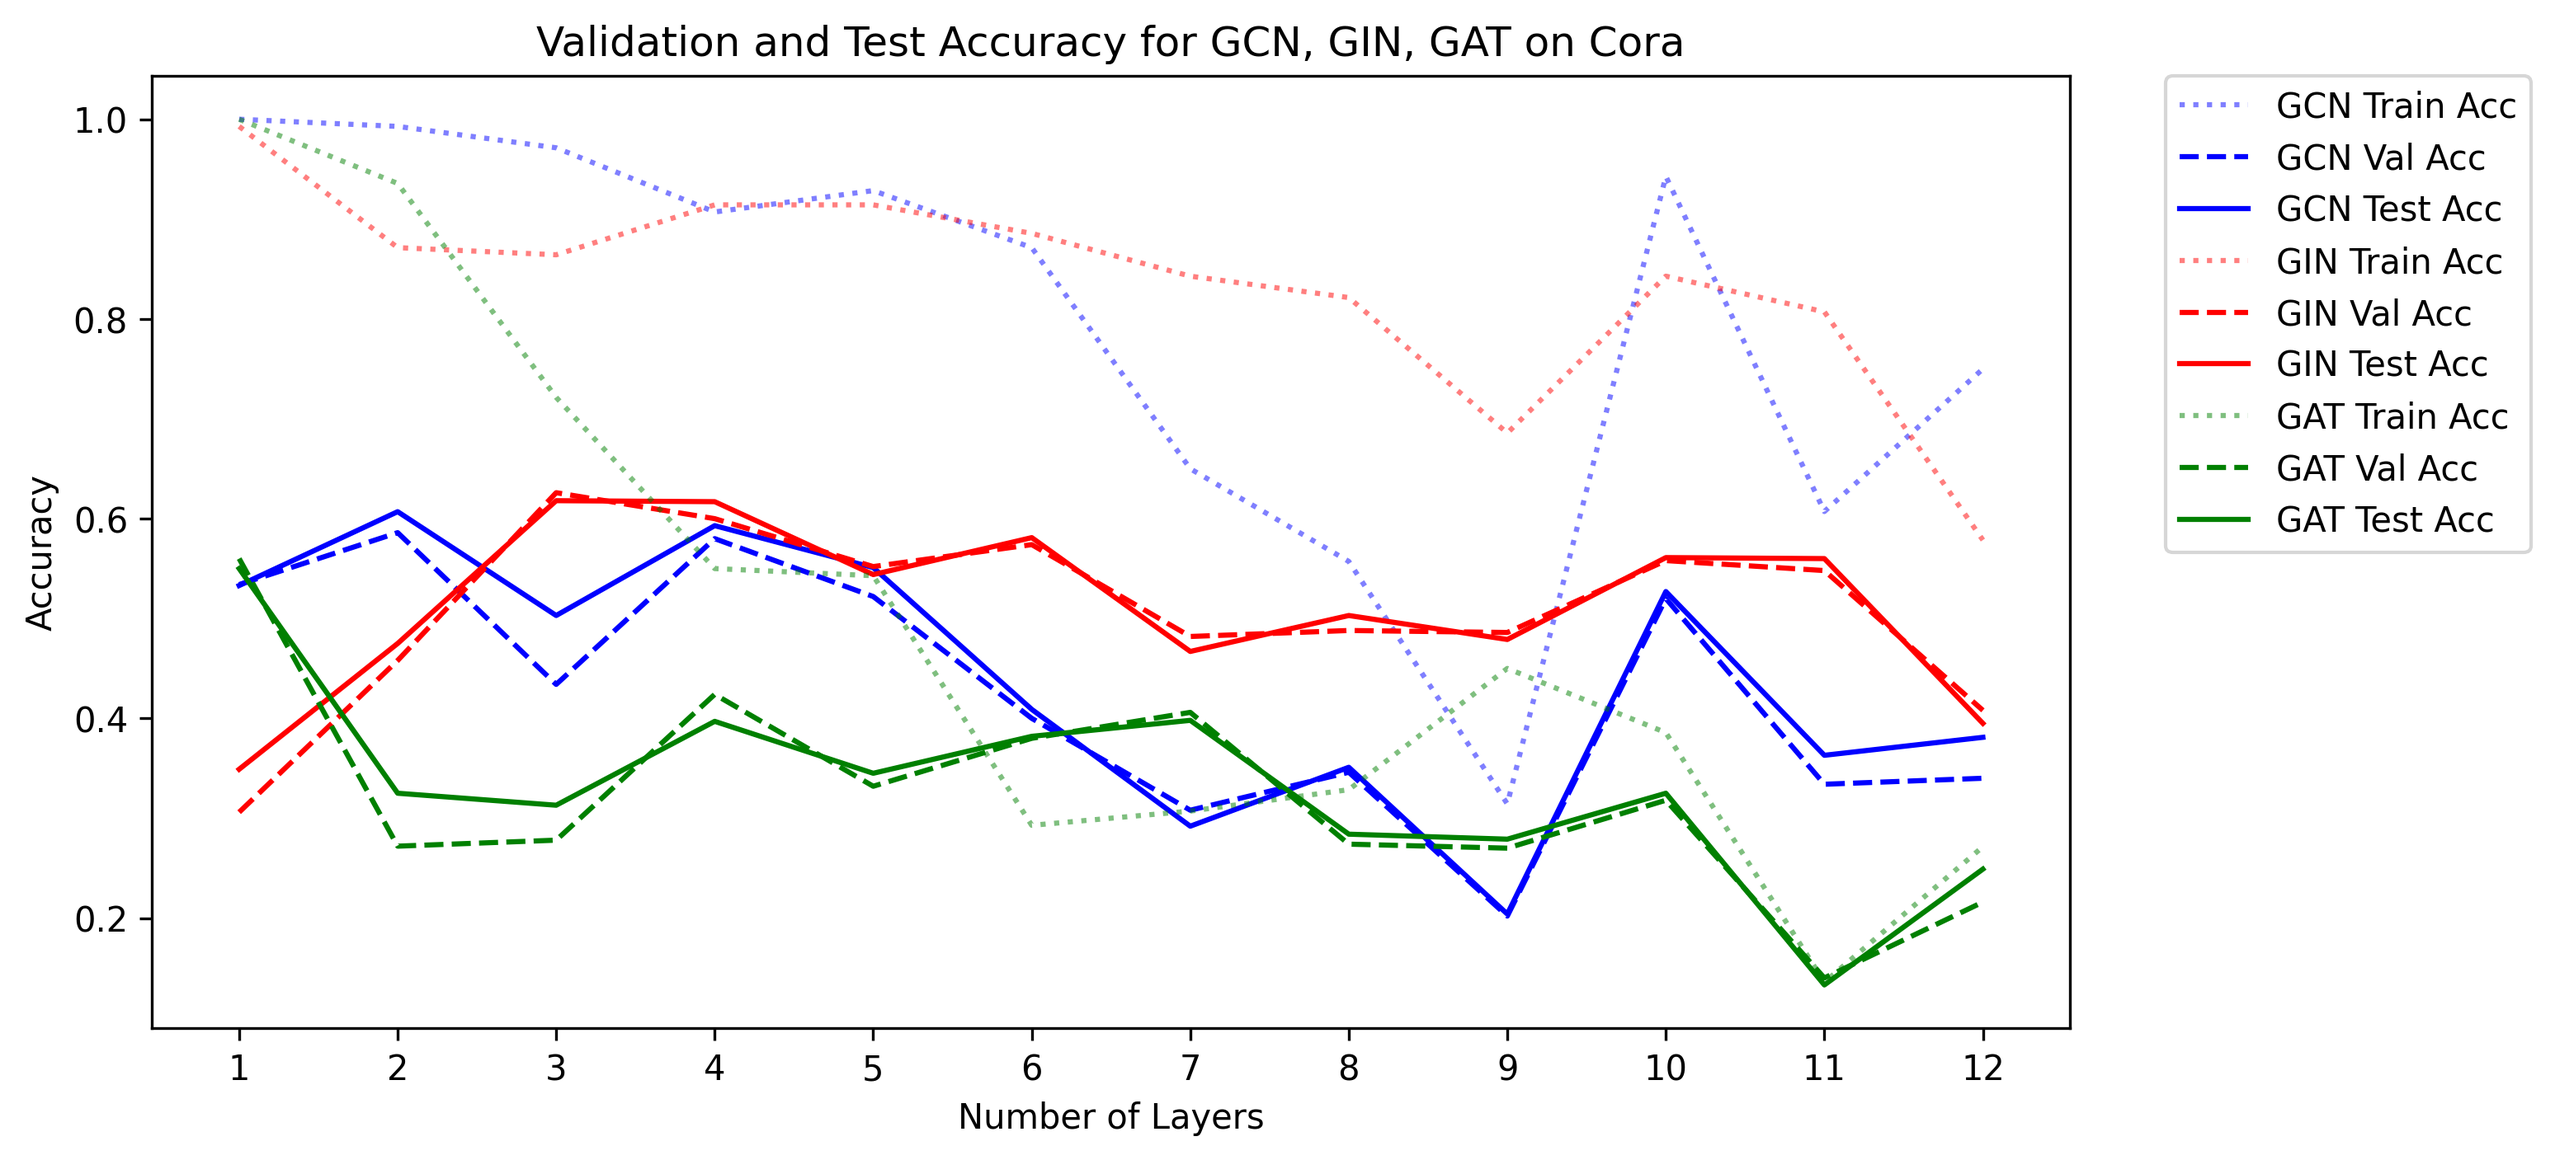
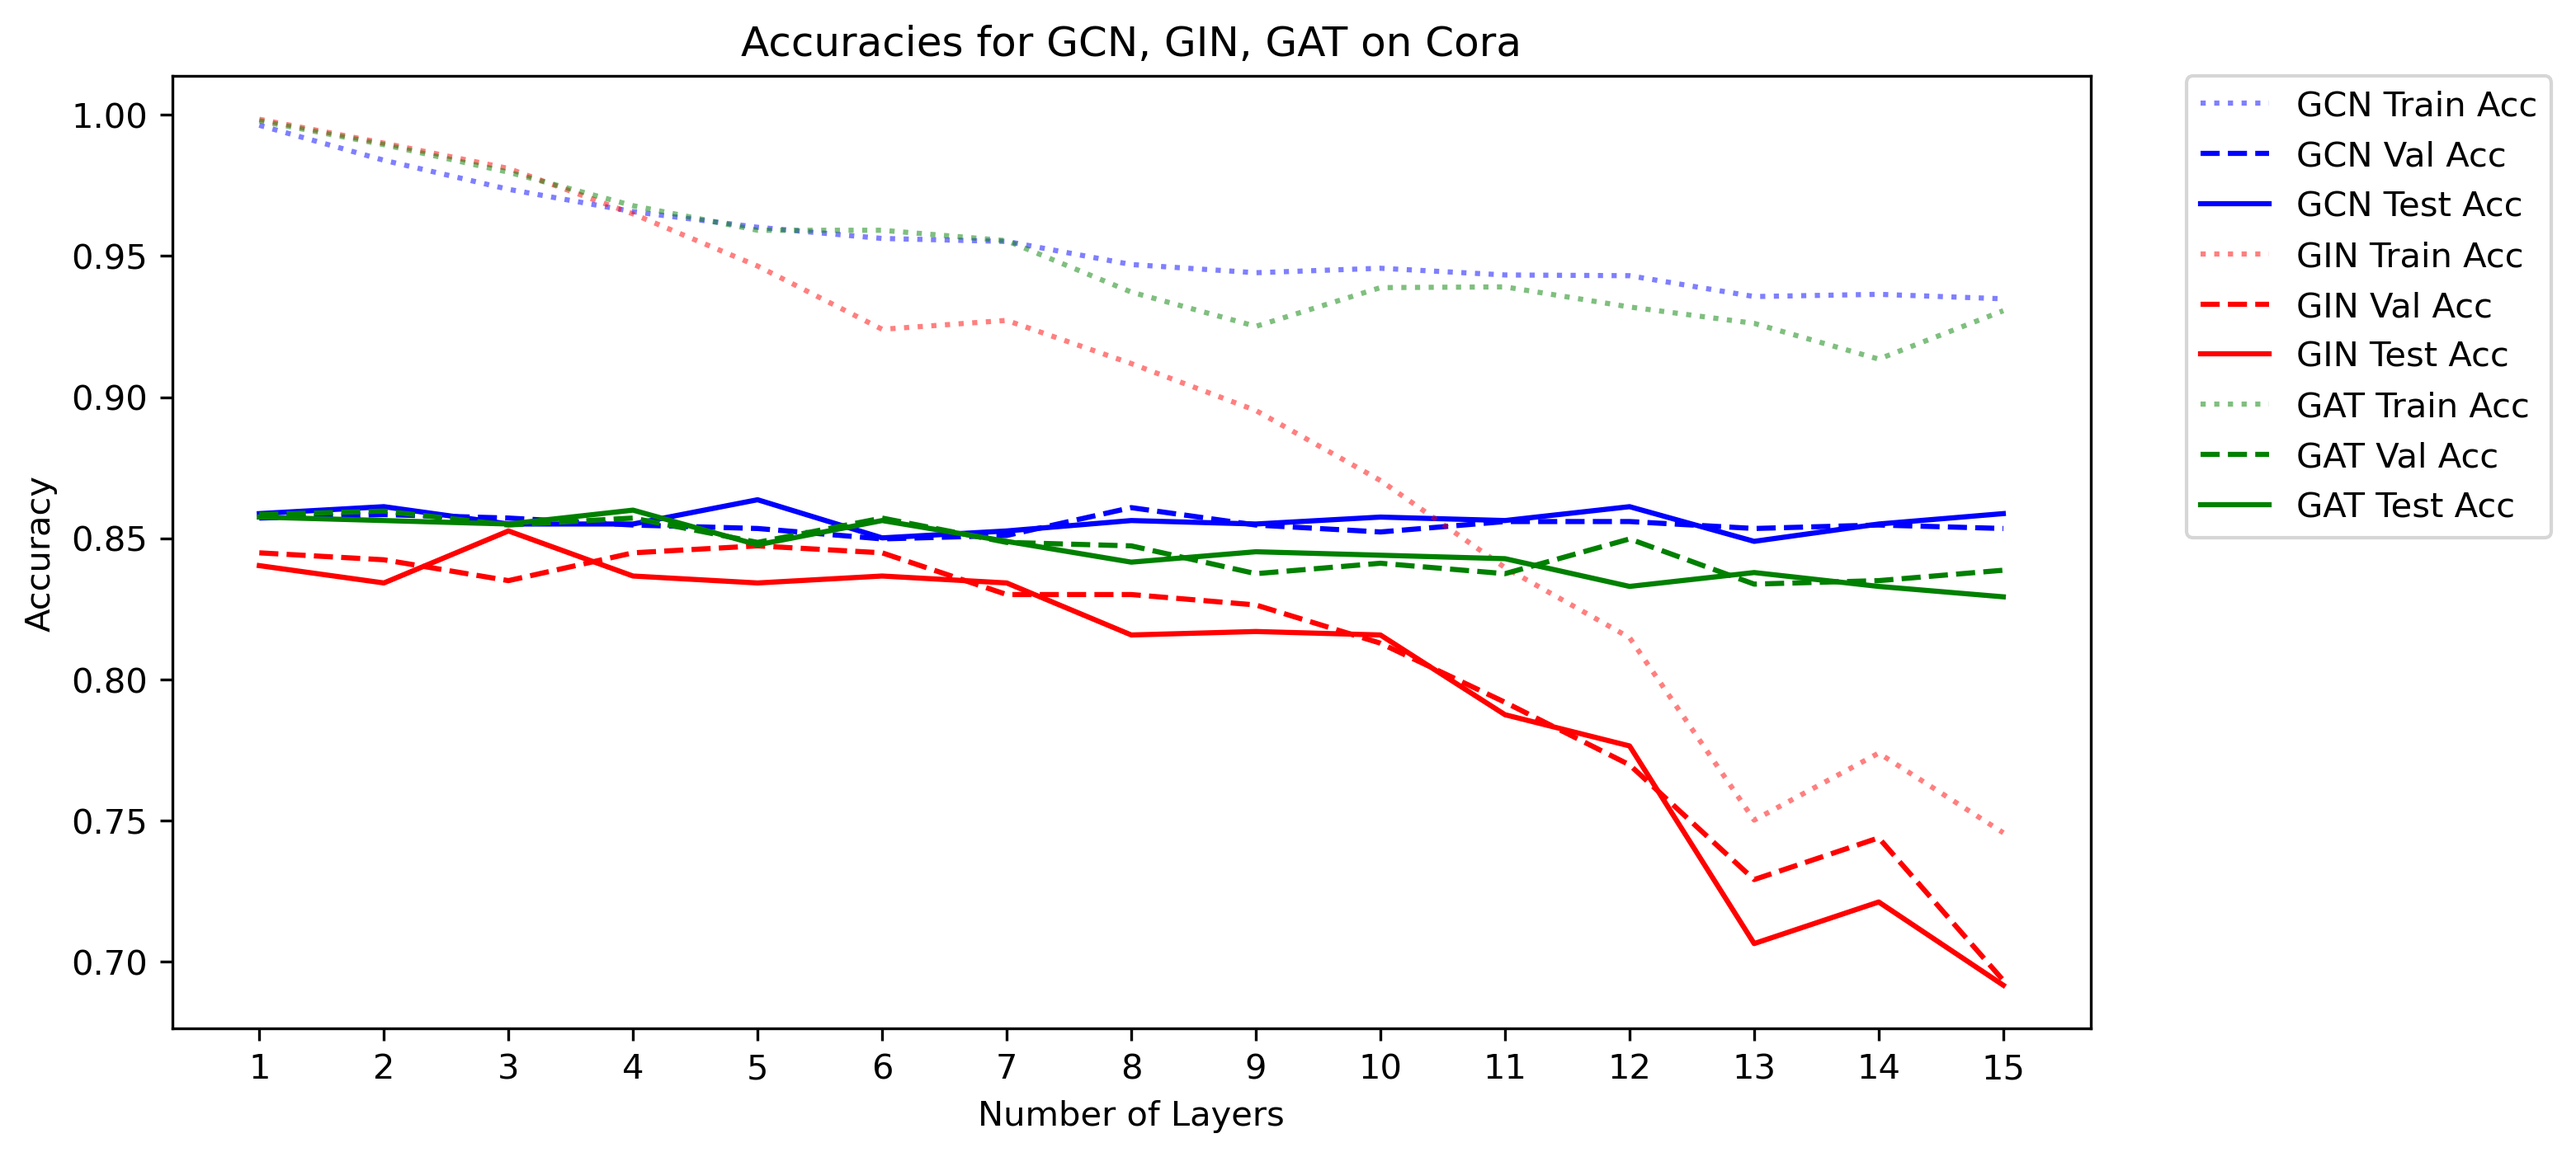
plots

diff --git a/src/utils/utils.py b/src/utils/utils.py
@@ -70,7 +70,9 @@ class Train:
     def __call__(self, model_class, nhid=64, heads=None, mlp_num=2, lr=0.001, batch_size=64, epochs=1000):
         model = model_class(self.nfeat, nhid, self.nclass, mlp_num, heads=heads).to(self.device)
         optimizer = torch.optim.Adam(model.parameters(), lr=lr)
-        early_stopping = EarlyStoppingLoss(patience=10, fname=f'{self.dataset_name}_{model._get_name()}_best_model.pth')
+        early_stopping = EarlyStoppingLoss(patience=10, fname=f'{self.dataset_name}_{model._get_name()}_{mlp_num}_layers_best_model.pth')
+        max_retries = 5
+        retry_delay = 0.1
 
         if self.dataset_name == 'CORA':
             return self.cora_training(model, optimizer, early_stopping, epochs)
@@ -83,7 +85,7 @@ class Train:
         test_size = len(self.dataset) - train_size - val_size
         train_dataset, val_dataset, test_dataset = random_split(
             self.dataset, [train_size, val_size, test_size],
-            generator=torch.Generator().manual_seed(42)
+#            generator=torch.Generator().manual_seed(42)
         )
         train_loader = DataLoader(train_dataset, batch_size=batch_size, shuffle=True)
         val_loader = DataLoader(val_dataset, batch_size=batch_size, shuffle=False)
@@ -133,7 +135,9 @@ class Train:
                 break
 
         # Load the best model and evaluate on the test set
-        model.load_state_dict(torch.load(f'{early_stopping.prefix_path}/{early_stopping.fname}', weights_only=True))
+        #model.load_state_dict(torch.load(f'{early_stopping.prefix_path}/{early_stopping.fname}', weights_only=True))
+        best_model_state = early_stopping.get_best_model()
+        model.load_state_dict(best_model_state)
         model.eval()
         with torch.no_grad():
             correct = 0
@@ -191,6 +195,29 @@ class Train:
     def cora_training(self, model, optimizer, early_stopping, epochs):
         data = self.dataset[0].to(self.device)
         train_history, val_history, val_accs = [], [], []
+        
+        # Set the split ratios for training, validation, and test sets
+        num_nodes = data.y.size(0)
+        train_size = int(0.7 * num_nodes)
+        val_size = int(0.15 * num_nodes)
+        test_size = num_nodes - train_size - val_size
+        
+        # Randomly split indices for each mask
+        indices = torch.randperm(num_nodes)
+        train_indices = indices[:train_size]
+        val_indices = indices[train_size:train_size + val_size]
+        test_indices = indices[train_size + val_size:]
+        
+        # Initialize the masks
+        data.train_mask = torch.zeros(num_nodes, dtype=torch.bool).to(self.device)
+        data.val_mask = torch.zeros(num_nodes, dtype=torch.bool).to(self.device)
+        data.test_mask = torch.zeros(num_nodes, dtype=torch.bool).to(self.device)
+        
+        # Set the masks based on the split indices
+        data.train_mask[train_indices] = True
+        data.val_mask[val_indices] = True
+        data.test_mask[test_indices] = True
+        
         for epoch in range(epochs):
             model.train()
             optimizer.zero_grad()
@@ -215,7 +242,9 @@ class Train:
                     # print(f'Early stopping triggered after {epoch+1} epochs.')
                     break
 
-        model.load_state_dict(torch.load(f'{early_stopping.prefix_path}/{early_stopping.fname}', weights_only=True))
+        #model.load_state_dict(torch.load(f'{early_stopping.prefix_path}/{early_stopping.fname}', weights_only=True))
+        best_model_state = early_stopping.get_best_model()
+        model.load_state_dict(best_model_state)
         model.eval()
         pred = model(data).argmax(dim=1)
         correct = (pred[data.test_mask] == data.y[data.test_mask]).sum()
@@ -281,7 +310,7 @@ def plot_accuracy(result, dataset_name):
     plt.xlabel('Number of Layers')
     plt.ylabel('Accuracy')
     plt.xticks(num_layers)
-    plt.title(f'Validation and Test Accuracy for GCN, GIN, GAT on {dataset_name}')
+    plt.title(f'Accuracies for GCN, GIN, GAT on {dataset_name}')
     plt.legend(bbox_to_anchor=(1.05, 1), loc='upper left', borderaxespad=0.)
     plt.savefig(f'figures/{dataset_name}_accuracy_histories.png', format='png', dpi=300, bbox_inches="tight")
     plt.close()
@@ -290,19 +319,26 @@ def plot_accuracy(result, dataset_name):
 def changing_num_layers(dataset, task, model_class, nhid=64, heads=4, lr=0.001, batch_size=64, epochs=500):
     trainer = Train(dataset=dataset, task=task, verbose=False)
     train_accs, val_accs, test_accs = [], [], []
-    for num_layer in range(1, 13):
-        _, _, _, train_acc, val_acc, test_acc = trainer(
-            model_class=model_class,
-            nhid=nhid,
-            heads=heads,
-            mlp_num=num_layer,
-            lr=lr,
-            batch_size=batch_size,
-            epochs=epochs
-        )
-        val_accs.append(val_acc)
-        test_accs.append(test_acc)
-        train_accs.append(train_acc)
+    for num_layer in range(1, 16):
+        print(num_layer)
+        train_tmp, val_tmp, test_tmp = [], [], []
+        for _ in range(30):
+            _, _, _, train_acc, val_acc, test_acc = trainer(
+                model_class=model_class,
+                nhid=nhid,
+                heads=heads,
+                mlp_num=num_layer,
+                lr=lr,
+                batch_size=batch_size,
+                epochs=epochs
+            )
+            train_tmp.append(train_acc)
+            val_tmp.append(val_acc)
+            test_tmp.append(test_acc)
+
+        train_accs.append(np.median(train_tmp))
+        val_accs.append(np.median(val_tmp))
+        test_accs.append(np.median(test_tmp))
 
     return train_accs, val_accs, test_accs
 

diff --git a/src/utils/earlystopping.py b/src/utils/earlystopping.py
@@ -26,27 +26,31 @@ class EarlyStoppingLoss:
         self.delta = delta
         self.prefix_path = prefix
         self.fname = fname
+        self.best_model_state = None
 
     def __call__(self, val_loss, model):
         score = val_loss
 
-        if self.best_score is None:
+        if self.best_score is None or score < self.best_score - self.delta:
             self.best_score = score
-        elif score > self.best_score + self.delta:
+            self.best_model_state = model.state_dict()
+            self.counter = 0
+            if self.verbose:
+                print(f"Validation loss improved to {val_loss:.6f}. Saving best model state.")
+        else:
             self.counter += 1
             if self.verbose:
-                print(f'EarlyStopping Loss counter: {self.counter} out of {self.patience}')
+                print(f"EarlyStopping counter: {self.counter} out of {self.patience}")
             if self.counter >= self.patience:
                 self.early_stop = True
-        else:
-            self.best_score = score
-            self.save_checkpoint(val_loss, model)
-            self.counter = 0
 
-    def save_checkpoint(self, val_loss, model):
-        if self.verbose:
-            print(f'Validation loss decreased ({self.val_loss_min:.6f} --> {val_loss:.6f}).  Saving model ...')
+#     def save_checkpoint(self, val_loss, model):
+#         if self.verbose:
+#             print(f'Validation loss decreased ({self.val_loss_min:.6f} --> {val_loss:.6f}).  Saving model ...')
 
-        file_name = f'{self.prefix_path}/{self.fname}'
-        torch.save(model.state_dict(), file_name)
-        self.val_loss_min = val_loss
+#         file_name = f'{self.prefix_path}/{self.fname}'
+#         torch.save(model.state_dict(), file_name)
+#         self.val_loss_min = val_loss
+        
+    def get_best_model(self):
+        return self.best_model_state

diff --git a/run.py b/run.py
@@ -25,18 +25,17 @@ def main(nhid=64, heads=4, lr=0.001, batch_size=64, epochs=500, datasets=['Cora'
 
     # Experiment 2
     # Testing how different GNNs perform when number of layers changes
+    result = {}
+    for dataset, task in zip(datasets, tasks):
+        for model, name in zip([GCN, GIN, GAT], ['GCN', 'GIN', 'GAT']):
+            train_accs, val_accs, test_accs = changing_num_layers(dataset, task, model, nhid=nhid, heads=heads, lr=lr, batch_size=batch_size, epochs=epochs)
+            result[name] = {
+                'train_accs': train_accs,
+                'val_accs': val_accs,
+                'test_accs': test_accs
+            }
 
-    # result = {}
-    # for dataset, task in zip(datasets, tasks):
-    #     for model, name in zip([GCN, GIN, GAT], ['GCN', 'GIN', 'GAT']):
-    #         train_accs, val_accs, test_accs = changing_num_layers(dataset, task, model, nhid=nhid, heads=heads, lr=lr, batch_size=batch_size, epochs=epochs)
-    #         result[name] = {
-    #             'train_accs': train_accs,
-    #             'val_accs': val_accs,
-    #             'test_accs': test_accs
-    #         }
-
-    #     plot_accuracy(result, dataset)
+        plot_accuracy(result, dataset)
 
     return None
 
